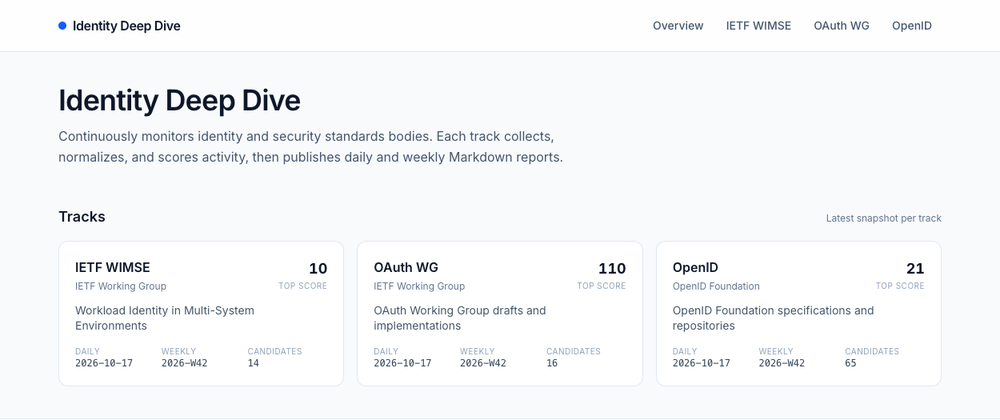
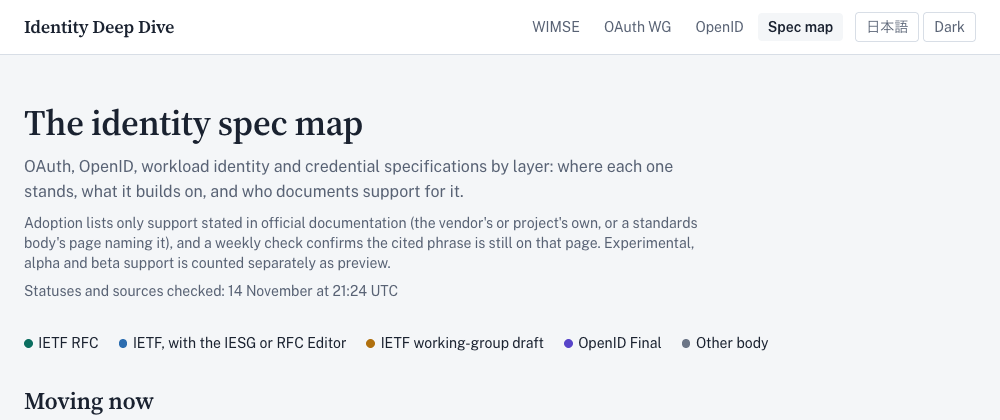
docs(article): bring the identity-deep-dive intro up to the current site (#28)
* docs(article): bring the identity-deep-dive intro up to the current site

The draft was written against the 2026-10-13 site: a four-stage scored radar with one deep dive. The site now explains each change with Claude, picks the week's changes, keeps a 62-spec map whose support claims are re-verified weekly, and has nine deep dives. Retitle, rewrite the body against the 2026-11-14 run, and replace the cover with the current spec map.

* docs(article): source and date-stamp the identity-deep-dive intro's claims

diff --git a/articles/identity-deep-dive-radar.md b/articles/identity-deep-dive-radar.md
@@ -1,55 +1,67 @@
 ---
-title: 'identity-deep-dive: A Daily, Scored Radar for OAuth WG, WIMSE, and OpenID Specs'
+title: 'identity-deep-dive: A Weekly Briefing and a Sourced Spec Map for OAuth, WIMSE, and OpenID'
 published: true
-description: 'Following OAuth WG, WIMSE, and the OpenID Foundation by hand means checking Datatracker, mailing lists, and dozens of GitHub repos. identity-deep-dive collects all of it every day, scores each draft and repo with an explainable rubric, and publishes the ranked result as a static site.'
+description: 'Following OAuth WG, WIMSE, and the OpenID Foundation by hand means checking Datatracker, mailing lists, and about ninety GitHub repos. identity-deep-dive collects all of it every six hours, has Claude explain what changed, and keeps a map of 62 specs where every support claim cites an official page.'
 tags:
   - showdev
   - oauth
   - security
   - identity
 series: ShowDev
-cover_image: 'https://raw.githubusercontent.com/0-draft/dev.to/refs/heads/main/articles/assets/identity-deep-dive-radar/cover.png?v=0e583817'
-date: '2026-11-13T00:00:00Z'
+cover_image: 'https://raw.githubusercontent.com/0-draft/dev.to/refs/heads/main/articles/assets/identity-deep-dive-radar/cover.png?v=49664009'
+date: '2026-11-14T00:00:00Z'
 id: 4869711
 ---
 
 ## Introduction
 
-If you work on identity, the specs move under you. An OAuth WG draft enters Working Group Last Call, a WIMSE draft gets a new revision, an OpenID repo suddenly has a burst of PRs. Each of those is a signal that "now is the time to read this", but the signals are spread across IETF Datatracker, the mail archive, and about ninety GitHub repositories (65 under `openid`, 20 under `oauth-wg`, and 6 under `ietf-wg-wimse` on the day I checked).
+If you work on identity, the specs move under you. An OAuth WG draft goes to the IESG, a WIMSE draft gets a new revision, the OpenID4VCI repo [switches a document's JSON properties to snake_case](https://github.com/openid/OpenID4VCI/pull/809). Each of those is a signal that "now is the time to read this", but the signals are spread across IETF Datatracker, the mail archive, and about ninety GitHub repositories (66 under `openid`, 21 under `oauth-wg`, and 6 under `ietf-wg-wimse` in the 2026-11-14 run).
 
-I kept missing them, so I built **[identity-deep-dive](https://github.com/0-draft/identity-deep-dive)**: a pipeline that collects those sources every day, scores what it finds, and publishes the ranking at **[0-draft.github.io/identity-deep-dive](https://0-draft.github.io/identity-deep-dive/)**.
+I kept missing them, so I built **[identity-deep-dive](https://github.com/0-draft/identity-deep-dive)**. It collects those sources every six hours, explains what changed, and keeps a map of where each spec stands and who documents support for it. The result is a static site at **[0-draft.github.io/identity-deep-dive](https://0-draft.github.io/identity-deep-dive/)**, in English and Japanese.
 
 ## Links
 
 - **Site:** [0-draft.github.io/identity-deep-dive](https://0-draft.github.io/identity-deep-dive/)
+- **Spec map:** [0-draft.github.io/identity-deep-dive/map/](https://0-draft.github.io/identity-deep-dive/map/)
 - **Repository:** [0-draft/identity-deep-dive](https://github.com/0-draft/identity-deep-dive)
 
 ## What it tracks
 
 | Track | Scope | Sources |
 | --- | --- | --- |
-| IETF WIMSE | Workload Identity in Multi System Environments | Datatracker, Mail Archive, GitHub |
+| IETF WIMSE | Workload Identity in Multi-System Environments | Datatracker, Mail Archive, GitHub |
 | OAuth WG | OAuth Working Group drafts and their repos | Datatracker, Mail Archive, GitHub |
 | OpenID | OpenID Foundation specifications and repos | GitHub |
 
+## What the site shows
+
+- **This week:** three to five changes worth five minutes, most important first, each with why it matters. In the 2026-11-14 run the top one was [RFC 10070](https://www.rfc-editor.org/rfc/rfc10070), which tightens the audience rules for JWT client assertions and assertion grants.
+- **Where the specs stand:** the IETF drafts the tracks follow, grouped by Datatracker state, from individual draft through WG last call, the IESG and the RFC Editor queue.
+- **Topics:** how the drafts and repositories group, for example "workload credentials and proof of possession" or "agent delegation and attenuation".
+- **Per-track pages:** the daily and weekly reports, and an explanation for each new revision, thread or PR.
+
 ## How it works
 
-Every track runs the same four-stage pipeline from a GitHub Actions cron:
+Every track runs the same pipeline from a GitHub Actions cron:
 
 ```text
-Collect  ->  Normalize  ->  Score  ->  Report
-  raw API       JSON         ranked      daily/weekly
-  snapshots     merge        backlog     markdown
+Collect  ->  Normalize  ->  Score  ->  Report  ->  Explain  ->  Synthesize
+  raw API       JSON         ranked      daily/weekly   Claude       picks +
+  snapshots     merge        backlog     markdown       briefing     topic map
 ```
 
 1. **Collect** pulls from Datatracker, the IETF mail archive, and the GitHub API.
-2. **Normalize** merges the sources into one `state.json` per track.
+2. **Normalize** merges the sources into one JSON state per track.
 3. **Score** ranks every draft or repo with weights that live in YAML, not code.
-4. **Report** writes daily and weekly Markdown, and an Astro site renders the latest snapshot.
+4. **Report** writes daily and weekly Markdown.
+5. **Explain** finds what is new since the last run (a draft revision, a mailing-list thread, a PR) and has Claude explain it from the source material: a headline, a summary grounded in the diff or message, a diagram of the mechanism, and links to related items in the other tracks.
+6. **Synthesize** reads the recent explanations across tracks and picks the week's changes and topics.
+
+The material Claude reads is written by third parties, so the workflow treats it as untrusted. The model runs in a job with read-only repository access and read-only tools. A second job with write access has no model in it: it validates the output and only then commits it. Every explanation and pick also carries a Japanese version.
 
 ## Explainable scoring
 
-The part I care about most is that every score explains itself. Here is the OAuth WG rubric, abridged from `tracks/oauth-wg/config/scoring.yaml`:
+The ranking explains itself. Here is the OAuth WG rubric, abridged from `tracks/oauth-wg/config/scoring.yaml`:
 
 ```yaml
 lifecycle_points:
@@ -67,34 +79,38 @@ activity:
   cap_points: 30
 ```
 
-And here is the top candidate from the 2026-10-13 run, straight from `candidates.json`:
+And here is the top candidate from the 2026-11-14 run, from `candidates.json`:
 
 ```json
 {
-  "draft_name": "draft-ietf-oauth-attestation-based-client-auth",
-  "score": 125,
+  "draft_name": "draft-ietf-oauth-sd-jwt-vc",
+  "score": 118,
   "reasons": [
-    "lifecycle: In WG Last Call (+70)",
-    "updated within 3 days (+25)",
-    "repo activity: 33 (+30)"
+    "lifecycle: IESG Evaluation (+70)",
+    "updated within 7 days (+18)",
+    "repo activity: 81 (+30)"
   ]
 }
 ```
 
-A draft in WG Last Call that was revised in the last three days and has an active repo is exactly the thing worth reading today, and the reasons say why it ranked first. If the weights feel wrong for your interests, you change the YAML, not the scorer.
+If the weights feel wrong for your interests, you change the YAML, not the scorer.
 
-## What one daily run looked like
+## A spec map where every claim has a source
 
-These numbers are a single snapshot, the 2026-10-13 run, so they will have moved by the time you read this. The site always shows the latest run. That day the three tracks reported:
+As of 2026-11-14, the [spec map](https://0-draft.github.io/identity-deep-dive/map/) covers 62 OAuth, OpenID, workload identity and credential specs in 11 layers, from grants and flows to security events. Each card says where the spec stands and how it relates to the others: what it builds on, profiles, extends or replaces. Of the 62, 25 are RFCs, 11 are OpenID Final specifications, one comes from another body, and the rest are IETF drafts at various stages.
 
-- **OAuth WG:** 11 active drafts. The top three were `attestation-based-client-auth` (125), `rfc7523bis` (90), and `sd-jwt-vc` (83).
-- **WIMSE:** 8 active WG drafts, 16 related drafts, 68 mailing-list posts scanned. The newest WG draft was `draft-ietf-wimse-aims-00` (AI Identity Management System).
-- **OpenID:** 65 public repos, 172 open PRs, and 1,521 open issues across the org. The top focus repo was `openid/authzen`.
+The part I care about most is the "documented support" list. A vendor or project is listed only when its own documentation, or a standards body's page naming it, says it supports the spec. Each of the 211 claims stores the official URL and an exact phrase from that page. A weekly job with no model in it fetches every page and checks that the phrase is still there. If it is gone, the site says "not re-verified since" with the date instead of quietly showing stale support. Experimental, alpha and beta support is counted separately as preview.
+
+For example, [DPoP](https://0-draft.github.io/identity-deep-dive/map/dpop/) currently lists eight: Okta, Auth0, Keycloak, Duende IdentityServer, node-oidc-provider, Spring Authorization Server, Spring Security and Authelia's oauth2-provider.
+
+Most specs on the map also have an explainer: when you reach for it, the problem it solves, how it works, what it requires and what to watch out for, with section references. For 17 RFCs there is a side-by-side page with the official English text next to an unofficial Japanese translation.
 
 ## From radar to deep dive
 
-The ranking is only the first half. When something crosses the threshold, the repo has templates for a deep dive (context, spec notes, an interop checklist, and a hands-on log), so reading a spec ends with notes I can return to instead of a closed browser tab. The first one, written in April 2026, covers [`draft-ietf-oauth-v2-1`](https://github.com/0-draft/identity-deep-dive/tree/main/tracks/oauth-wg/deep-dives/draft-ietf-oauth-v2-1). If WIMSE itself is new to you, I wrote a [WIMSE deep dive](https://dev.to/kanywst/wimse-workload-identity-in-multi-system-environments-deep-dive-standardizing-identity-5a12) earlier.
+The ranking feeds deep dives. Once a week a job takes the top candidate in each track that has no deep dive yet, has Claude draft one from the source text (context, spec notes, an interop checklist and a hands-on log), and opens it as a draft pull request. Nothing lands until a person has checked it against the primary sources.
+
+Reading that closely pays off. The [WIMSE HTTP signature deep dive](https://0-draft.github.io/identity-deep-dive/ietf-wimse/deep-dives/draft-ietf-wimse-http-signature/) records that [draft-ietf-wimse-http-signature-08](https://www.ietf.org/archive/id/draft-ietf-wimse-http-signature-08.txt) (Sections 3 and 3.6) tells recipients to validate the workload identity token "as specified in Section 5.1.4" of the workload credentials draft. Neither [-02](https://www.ietf.org/archive/id/draft-ietf-wimse-workload-creds-02.txt) nor [-03](https://www.ietf.org/archive/id/draft-ietf-wimse-workload-creds-03.txt) of that draft has a Section 5.1.4. In -03, WIT validation is Section 5.1.3. As of 2026-11-14 there are nine deep dives, including OAuth 2.1, SD-JWT VC, Client ID Metadata Documents and OpenID4VCI. If WIMSE itself is new to you, I wrote a [WIMSE deep dive](https://dev.to/kanywst/wimse-workload-identity-in-multi-system-environments-deep-dive-standardizing-identity-5a12) earlier.
 
 ## Conclusion
 
-If you follow OAuth, workload identity, or OpenID specs, the site gives you a ranked "what moved today" view without opening Datatracker. If a source or working group you care about is missing, issues and PRs are welcome: adding a track starts from `templates/new-track/`.
+If you follow OAuth, workload identity, or OpenID specs, the site gives you "what moved this week" without opening Datatracker, and the map tells you where a spec stands and who documents support for it, with a link you can check yourself. If a source, a spec or an implementation you care about is missing, issues and PRs are welcome. A new support claim needs an official URL and the exact phrase from that page.
